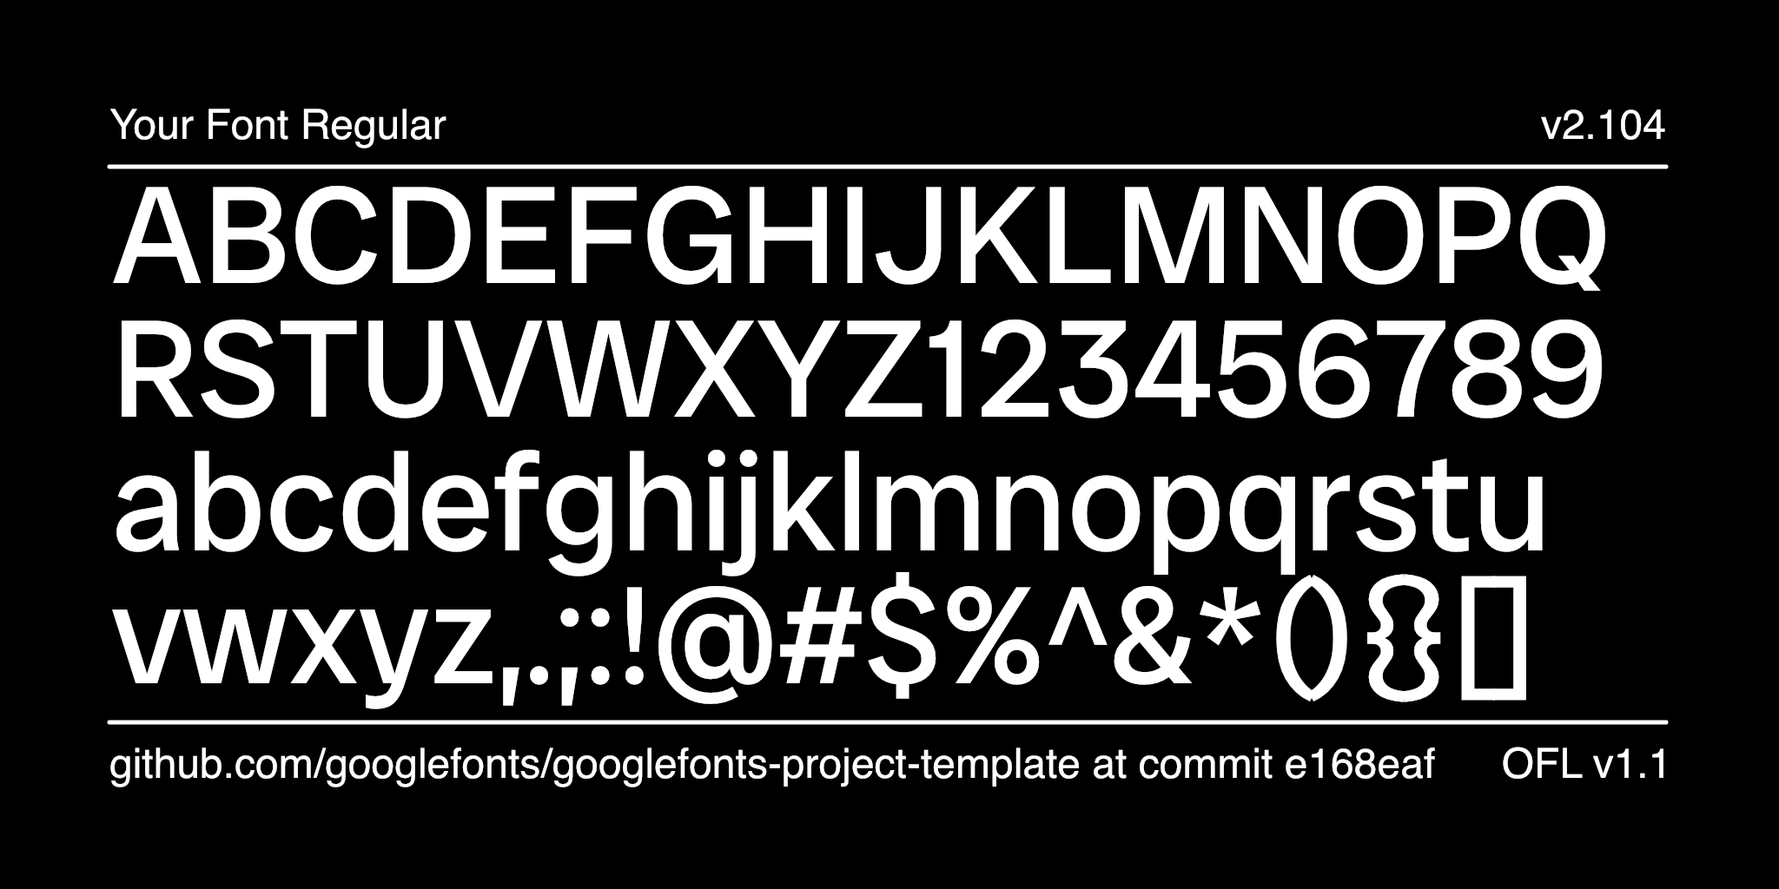
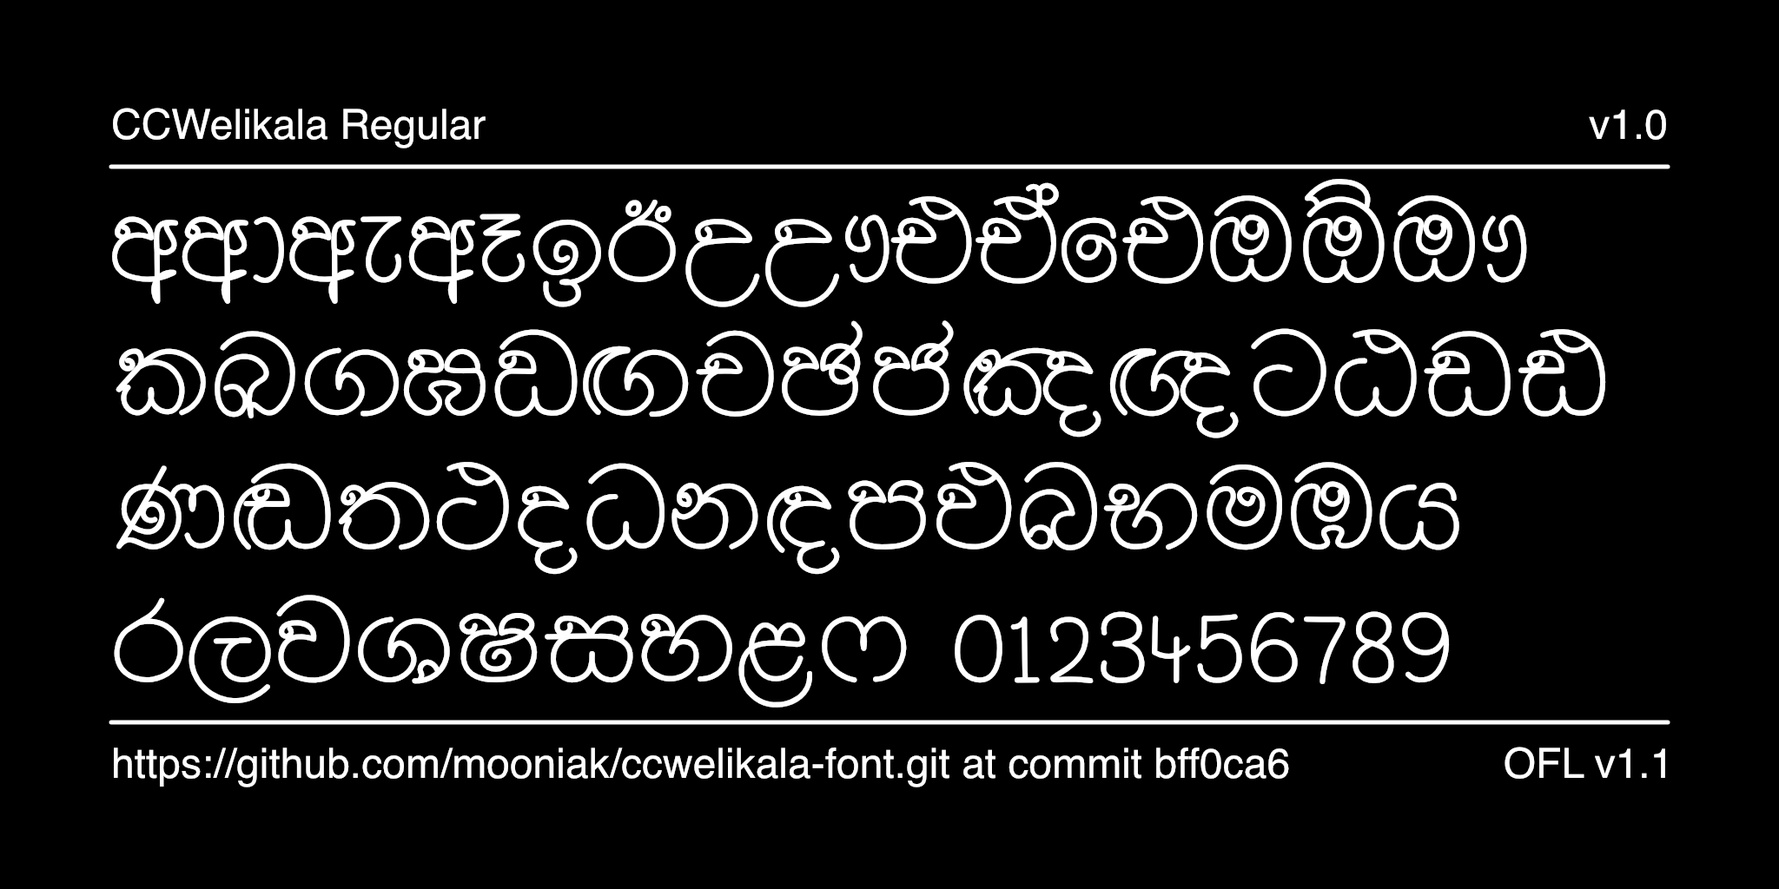
README, credits, article and specimens
Fills in the project template's placeholders:
- README: the font, its ASCII to Unicode port, font data and coverage
  from the release build, OpenType features, build and release steps
- AUTHORS.txt and CONTRIBUTORS.txt: Damith Welikala; OFL.txt line 1 is
  the font's copyright
- documentation/ARTICLE.en_us.html: the font description
- specimens: image1/image2.py point at fonts/ttf with Sinhala text drawn
  from the font's own coverage, rendered from a local --channel release
  build

diff --git a/documentation/ARTICLE.en_us.html b/documentation/ARTICLE.en_us.html
@@ -1,12 +1,17 @@
 <p>
-    Please add a text describing the font here, 100 chracters or more, but no more than 500 words.
-    See https://googlefonts.github.io/gf-guide/article.html for further reference.
-    Please make sure that HTML characters are properly encoded. ('&' becomes &amp; etc.)
-    If unsure, use https://www.freeformatter.com/html-escape.html for formatting. (Use "Escape HTML").
+    CCWelikala is a round, monoline Sinhala typeface by Damith Welikala (Ceylon Calligraphy), made in 2019.
+    Its letters are drawn with one even line and round, open shapes, for headings, posters, packaging and short texts at larger sizes.
 </p>
 <p>
-    Could be several paragraphs, also.
+    The font was first made in the FM Abhaya ASCII layout, the encoding most Sinhala fonts used
+    before Unicode: Sinhala letters were drawn on Latin keys, so text only looked like Sinhala in
+    that one font. In 2026 Mooniak ported it to Unicode. Every glyph now sits on its Sinhala
+    code point or is reached through OpenType rules, the vowel signs that were typed as separate
+    keys are composed, and the signs are positioned exactly where the original drew them.
 </p>
 <p>
-    To contribute, see <a href="https://github.com/youruseraccount/yourrepository">github.com/youruseraccount/yourrepository</a>.
+    The font covers the Sinhala letters in common use with their vowel signs, the repaya, rakaransaya and yansaya, ක්&zwj;ෂ, ක්&zwj;ව, ත්&zwj;ව, න්&zwj;ධ, ද්&zwj;ර and the designer's own ර්&zwj;ය, a set of consonant + vowel-sign ligatures, plus digits and basic punctuation, in a single Regular weight.
+</p>
+<p>
+    To contribute, see <a href="https://github.com/mooniak/ccwelikala-font">github.com/mooniak/ccwelikala-font</a>.
 </p>

diff --git a/documentation/image2.py b/documentation/image2.py
@@ -1,7 +1,7 @@
 # This script is meant to be run from the root level
 # of your font's git repository. For example, from a Unix terminal:
-# $ git clone my-font
-# $ cd my-font
+# $ git clone https://github.com/mooniak/ccwelikala-font.git
+# $ cd ccwelikala-font
 # $ python3 documentation/image1.py --output documentation/image1.png
 
 # Import moduels from external python packages: https://pypi.org/
@@ -13,19 +13,20 @@ from fontTools.misc.fixedTools import floatToFixedToStr
 import subprocess
 import sys
 import argparse
+import glob
 
 # Constants, these are the main "settings" for the image
 WIDTH, HEIGHT, MARGIN, FRAMES = 2048, 1024, 128, 1
-FONT_PATH = "fonts/variable/MyFont[wght].ttf"
+FONT_PATH = (sorted(glob.glob("fonts/ttf/*.ttf")) or sorted(glob.glob("fonts/variable/*.ttf")))[0]
 FONT_LICENSE = "OFL v1.1"
 AUXILIARY_FONT = "Helvetica"
 AUXILIARY_FONT_SIZE = 48
 
-LINE_ONE = "ABCDEFGHIJKLMNOPQ"
-LINE_TWO = "RSTUVWXYZ123456789"
-LINE_THREE = "abcdefghijklmnopqrstu"
-LINE_FOUR = "vwxyz,.;:!@#$%^&*(){}[]"
-BIG_TEXT_FONT_SIZE = 160
+LINE_ONE = "අආඇඈඉඊඋඌඑඒඓඔඕඖ"
+LINE_TWO = "කඛගඝඞඟචඡජඤඥටඨඩඪ"
+LINE_THREE = "ණඬතථදධනඳපඵබභමඹය"
+LINE_FOUR = "රලවශෂසහළෆ 0123456789"
+BIG_TEXT_FONT_SIZE = 140
 BIG_TEXT_SIDE_MARGIN = MARGIN * 1
 BIG_TEXT_BOTTOM_MARGIN = MARGIN * 5.45
 

diff --git a/documentation/image1.py b/documentation/image1.py
@@ -1,7 +1,7 @@
 # This script is meant to be run from the root level
 # of your font's git repository. For example, from a Unix terminal:
-# $ git clone my-font
-# $ cd my-font
+# $ git clone https://github.com/mooniak/ccwelikala-font.git
+# $ cd ccwelikala-font
 # $ python3 documentation/image1.py --output documentation/image1.png
 
 # Import moduels from external python packages: https://pypi.org/
@@ -13,18 +13,19 @@ from fontTools.misc.fixedTools import floatToFixedToStr
 import subprocess
 import sys
 import argparse
+import glob
 
 # Constants, these are the main "settings" for the image
 WIDTH, HEIGHT, MARGIN, FRAMES = 2048, 1024, 128, 1
-FONT_PATH = "fonts/variable/MyFont[wght].ttf"
+FONT_PATH = (sorted(glob.glob("fonts/ttf/*.ttf")) or sorted(glob.glob("fonts/variable/*.ttf")))[0]
 FONT_LICENSE = "OFL v1.1"
 AUXILIARY_FONT = "Helvetica"
 AUXILIARY_FONT_SIZE = 48
 
-BIG_TEXT = "AaBb"
-BIG_TEXT_FONT_SIZE = 730
+BIG_TEXT = "වැලිකල"
+BIG_TEXT_FONT_SIZE = 420
 BIG_TEXT_SIDE_MARGIN = MARGIN * 1
-BIG_TEXT_BOTTOM_MARGIN = MARGIN * 2
+BIG_TEXT_BOTTOM_MARGIN = MARGIN * 2.6
 
 GRID_VIEW = False # Toggle this for a grid overlay
 

diff --git a/README.md b/README.md
@@ -1,101 +1,205 @@
-## Setting up your font
+CCWelikala
+==========
 
-### New repositories
+[![Build][badge-build]][link-build]
+[![Fontspector QA][badge-qa]][link-qa]
+[![Release][badge-release]][link-release]
+[![License: OFL 1.1][badge-license]][link-license]
 
-1. Hit the green button above ("Use this template") to create your own repository.
+[badge-build]: https://github.com/mooniak/ccwelikala-font/actions/workflows/build.yaml/badge.svg?branch=dev
+[badge-qa]: https://img.shields.io/badge/dynamic/json?url=https%3A%2F%2Fsrc.mooniak.com%2Fccwelikala-font%2Fbuild.json&query=%24.qa.pass_rate&suffix=%25&label=fontspector%20QA%20(dev%20build)&color=informational
+[badge-release]: https://img.shields.io/github/v/release/mooniak/ccwelikala-font?label=release
+[badge-license]: https://img.shields.io/badge/license-OFL--1.1-green
+[link-build]: https://github.com/mooniak/ccwelikala-font/actions/workflows/build.yaml
+[link-qa]: https://src.mooniak.com/ccwelikala-font/reports/fontspector/fontspector-report.html
+[link-release]: https://github.com/mooniak/ccwelikala-font/releases
+[link-license]: OFL.txt
 
-2. Clone the repository, and replace the font sources in the `sources` directory with your own font sources. These sources may be either in Glyphs format or UFO/Designspace formats.\
-   \
-   Unlike many open source distributors, Google Fonts is **curated**. Fonts shipped to the platform have to match the [Google Fonts Specifications](https://github.com/googlefonts/gf-docs/tree/main/Spec). Please read them carefully.\
-   \
-   _(The template ships a tiny generic placeholder — "My Font", a 2-master Weight variable font with a handful of blank-slate glyphs (`.notdef`, space, H, I, l, O) as `sources/MyFont.designspace` + UFOs. It exists only so the build pipeline works out of the box; replace it with your own sources.)_
+CCWelikala is a round, monoline Sinhala typeface by Damith Welikala (Ceylon Calligraphy), made in 2019.
+Its letters are drawn with one even line and round, open shapes, for headings, posters, packaging and short texts at larger sizes. It is published by [Mooniak](https://mooniak.com/) as a free font under the SIL Open
+Font License, in a single Regular weight.
 
-3. Then reference the sources in the file `sources/config.yaml`, as well as making any other changes you would like to make based on the instructions in the [Google Fonts Builder documentation](https://github.com/googlefonts/gftools/blob/main/Lib/gftools/builder/__init__.py).
+> **Port in progress.** The source has been converted to Unicode, but the Mooniak metadata step is not done yet: the source is still named `CC_Welikala-ASCII.glyphspackage`, and the font's copyright, designer, vendor ID and vertical metrics are still the 2019 ones.
 
-4. Add yourself to the `AUTHORS.txt` and `CONTRIBUTORS.txt` files.
+![CCWelikala specimen](documentation/image1.png)
+![CCWelikala character set](documentation/image2.png)
 
-5. Fill out `documentation/ARTICLE.en_us.html` with a description of your font.
+## From an ASCII font to Unicode
 
-6. Rewrite this Readme file according to the recommendations in the [Google Fonts Guide](https://googlefonts.github.io/gf-guide/readmefile.html).
+CCWelikala was first made in the **FM Abhaya ASCII layout**, the encoding most Sinhala fonts used
+before Unicode. Sinhala letters were drawn on Latin keys (`l` was ක, `s` the is-pilla drawn to
+overprint the letter before it, `f` the kombuva typed *before* the letter, `á` a precomposed ටි).
+Text typed that way only reads as Sinhala in that one font. Search, copy-paste, spell-checking
+and screen readers all see Latin gibberish.
 
-7. Add and commit these files to git.
+In November 2026 the source was ported to Unicode with Mooniak's
+[`ascii_to_unicode.py`](https://github.com/mooniak/mooniak-font-tools/tree/main/tools/font-migration):
 
-8. **At the command line, run `make customize` to ensure that all the paths and URLs in your project are correct**. This will also push your changes to GitHub.
+- every glyph got its Sinhala code point or a [LankaGlyphset](https://github.com/mooniak/lanka-glyphsets)
+  name reached by OpenType rules (the precomposed ටි ඩී ද්ර … are ligatures now);
+- what FM typed as several keys (ආ = `wd`, ෛ = `ff`, රු = `re` …) is composed from the same drawings;
+- the overprinting signs have zero width and mark anchors that put them exactly where the
+  original drew them; the kombuva is reordered by the shaper, not typed first.
 
-9. **Set up your GitHub pages site**: go to your repository's Settings > Pages and ensure that the Build and deployment "Source" drop-down is set to "GitHub Actions". (Any preexisting Actions jobs can be re-run to publish now, or the deployment triggered also manually from the Actions tab. Subsequent commits will publish the proofs and QA results automatically.)
+Every decision is in [`documentation/ascii-unicode-map.tsv`](documentation/ascii-unicode-map.tsv).
+Where this font differs from the standard FM layout, it is in
+[`documentation/ascii-overrides.tsv`](documentation/ascii-overrides.tsv): `_` is the repaya and `©` a precomposed ර්ය, `¶` a second ග.
+The port was checked by rendering 1255 texts (every glyph slot, 961 syllables, 124 words of real FM text) in the old ASCII font and, as Unicode, in the new one: 1248 came out the same. The 7 others are expected: ÷ sat on the soft-hyphen slot, which is never drawn; ඞේ ඡේ use the designer's precomposed ඞ් ඡ්; and ර්ය is now set with the font's own ර්ය instead of ර + yansaya (which one is the default is the designer's call).
 
-10. If GitHub Actions has successfully built the family, you will find the font binaries in the Actions tab. The official GitHub Actions documentation provides further [information](https://docs.github.com/en/actions/managing-workflow-runs/downloading-workflow-artifacts).
+**Old documents typed in the ASCII version** can be converted to Unicode text with
+[Pandukabhaya](https://github.com/akuruAI/Pandukabhaya) (`pandukabhaya fm_abhaya -i old.txt -o new.txt`).
 
-### Updating a repository
+## Get the font
 
-1. To update your font repository to bring in the latest best-practices from the Google Fonts Project Template, run `make update-project-template` from the command line. This requires the `node` Javascript engine to be installed; if you don't have that already, [follow these instructions](https://nodejs.org/en/download/package-manager#macos) to install on your platform.
+- **Download:** the [Releases](https://github.com/mooniak/ccwelikala-font/releases) page. A
+  pre-release named `canary` is rebuilt from every push to `dev`. It is the latest development
+  work and may be broken, so don't use it in production. Its family name ends in `CANARY`, so it
+  can be installed next to a release.
+- **Proofs and QA:** the latest development build, with type proofs and the full Fontspector
+  report, is at [src.mooniak.com/ccwelikala-font](https://src.mooniak.com/ccwelikala-font/).
+- **Build it yourself:** see [Building the fonts from source](#building-the-fonts-from-source).
 
-2. To update the Python build chain which builds your fonts, run `make update` and `git add`/`git commit` the new `requirements.txt`.
+## Font data
 
-## More things to do
+| | |
+|---|---|
+| **Version** | 1.000 |
+| **Script** | Sinhala (no Latin letters; digits and basic punctuation only) |
+| **Styles** | Regular |
+| **Formats** | TTF, OTF and WOFF2 (`CCWelikala-Regular.*`) |
+| **Glyphs** | 192 (114 mapped to Unicode code points; the rest are ligatures and alternates used by OpenType features) |
+| **Units per em** | 1000 |
+| **Vertical metrics** | still the 2019 values (`hhea` 902 / −247; typo 800 / −200 with a 200 line gap; win 1000 / 200); the Mooniak metadata step will set Google Fonts metrics |
+| **File size** | about 335 KB (TTF), 221 KB (OTF), 128 KB (WOFF2) |
+| **Source format** | [Glyphs](https://glyphsapp.com/) 3 package (`sources/CC_Welikala-ASCII.glyphspackage`) |
+| **License** | [SIL Open Font License 1.1](OFL.txt) |
 
-- `CustomFilter_GF_Latin_All.plist` in `sources` is practical if you use GlyphsApp, you can remove it otherwise. Placed in the same directory as the your `.glyphs` file, it will allow Glyphs to display a filter list for all GF Latin glyphsets in app. To make sure your font supports the minimal set required by Google Fonts, look at the `GF_Latin_Core` filter list. Find other glyphsets and list formats for different software in [GF Glyphsets repository](https://github.com/googlefonts/glyphsets/tree/main/GF_glyphsets).
+### Character coverage
 
-- Once you are happy with your font, add promotional assets in the documentation directory. Make it different from the pic you use in this README. You can get inspired by existing @googlefonts posts as: https://x.com/googlefonts/status/1415562928657416192.
+| Range | Encoded |
+|---|---|
+| Sinhala (U+0D80–0DFF) | 76 of 91, the repaya and a precomposed ර්ය, both drawn by the designer. Not drawn: candrabindu U+0D81, ඏ ඐ U+0D8F–0D90, ෳ U+0DF3, kunddaliya U+0DF4, Lith digits U+0DE6–0DEF |
+| Basic Latin | space, digits 0–9 and `! % ( ) * + , - . / : ; = ?` |
+| Other | × ÷ – • ⋆ ‘ ’, no-break space, ZWNJ, ZWJ, dotted circle (U+25CC); the Ceylon Calligraphy wordmark on U+E000 and an unidentified sign on U+E001 (private use) |
 
-- Google Fonts uses GitHub Releases to manage font families. If you feel your font project has hit a milestone, you must create a new release for it. In order to do this, go to the releases page and hit the "Draft a new release" button. You must provide a tag number and title which can only be a decimal number e.g. `0.100`, `1.000` etc. For the body text, mention what has changed since the last release. Once you are done, hit the "Publish release" button. Here is an example which fulfills the requirements, https://github.com/m4rc1e/test-ufr-family/releases/tag/2.019. For more info regarding GitHub release, please see the official GitHub Release [documentation](https://docs.github.com/en/repositories/releasing-projects-on-github/managing-releases-in-a-repository). **Please note that GitHub Actions must be able to build the fonts before you can make a release. Once you have made a release, the fonts and tests assets will be attached to the release automatically. This may take a while since the fonts and tests will be built from scratch so please be patient.**
+### OpenType features
 
----
+The features are generated by `ascii_to_unicode.py` from the glyphs the font has.
 
-# My Font
+| Layout table | Features |
+|---|---|
+| `GSUB` | `akhn` (ක්ෂ) `rphf` (repaya) `vatu` (rakaransaya, yansaya, ද්ර) `pstf` (two-part vowels) `abvs` `blws` `psts` (consonant + sign ligatures, ක්ව ත්ව න්ධ, the designer's ර්ය, the hook-form ු/ූ after ක ග ත භ ශ, රු රූ) `ss01` (below-base ඳා) |
+| `GPOS` | `abvm` `mark` (ි ී ු ූ ් placed where the original drew them) |
 
-[![][Fontspector]](https://mooniak.github.io/mooniak-font-project-template.git/fontspector/fontspector-report.html)
-[![][OpenType]](https://mooniak.github.io/mooniak-font-project-template.git/fontspector/fontspector-report.html)
-[![][Universal]](https://mooniak.github.io/mooniak-font-project-template.git/fontspector/fontspector-report.html)
-[![][Google Fonts]](https://mooniak.github.io/mooniak-font-project-template.git/fontspector/fontspector-report.html)
-[![][Glyphset]](https://mooniak.github.io/mooniak-font-project-template.git/fontspector/fontspector-report.html)
+Most conjuncts fall back to a letter with a visible al-lakuna, and some glyphs need the designer to confirm what they are.
 
-[Fontspector]: https://img.shields.io/endpoint?url=https%3A%2F%2Fmooniak.github.io%2Fmooniak-font-project-template.git%2Fbadges%2FFontspectorQA.json
-[OpenType]: https://img.shields.io/endpoint?url=https%3A%2F%2Fmooniak.github.io%2Fmooniak-font-project-template.git%2Fbadges%2FOpentypeSpecificationChecks.json
-[Universal]: https://img.shields.io/endpoint?url=https%3A%2F%2Fmooniak.github.io%2Fmooniak-font-project-template.git%2Fbadges%2FUniversalProfileChecks.json
-[Google Fonts]: https://img.shields.io/endpoint?url=https%3A%2F%2Fmooniak.github.io%2Fmooniak-font-project-template.git%2Fbadges%2FFontFileChecks.json
-[Outline Correctness]: https://img.shields.io/endpoint?url=https%3A%2F%2Fmooniak.github.io%2Fmooniak-font-project-template.git%2Fbadges%2FOutlineCorrectnessChecks.json
-[Glyphset]: https://img.shields.io/endpoint?url=https%3A%2F%2Fmooniak.github.io%2Fmooniak-font-project-template.git%2Fbadges%2FGlyphsetChecks.json
+## Repository structure
 
-Description of your font goes here. We recommend to start with a very short presentation line (the kind you would use on twitter to present your project for example), and then add as much details as necesary :-) Origin of the project, idea of usage, concept of creation… but also number of masters, axes, character sets, etc.
+| Path | What it is |
+|---|---|
+| `sources/CC_Welikala-ASCII.glyphspackage` | The font source: glyphs, anchors and OpenType feature code, as a Glyphs 3 package |
+| `sources/config.yaml` | Build configuration read by [gftools](https://github.com/googlefonts/gftools) |
+| `fontpackage.json` | Mooniak catalogue metadata (name, designer, tier, channels) |
+| `Makefile` | Build, test and proof targets (see below) |
+| `requirements.in`, `requirements.txt` | Python dependencies: the top-level list, and the pinned set used for builds |
+| `fonts/`, `out/`, `_site/` | Build output, QA/proof reports and the proof site (created by `make`; not committed) |
+| `documentation/` | Specimen images and their DrawBot scripts, the font description (`ARTICLE.en_us.html`), and the ASCII → Unicode port records (`ascii-unicode-map.tsv`, `ascii-overrides.tsv`) |
+| `scripts/` | Helper scripts used by the Makefile and CI (from the Mooniak project template) |
+| `OFL.txt`, `AUTHORS.txt`, `CONTRIBUTORS.txt` | License and credits |
 
-Don't hesitate to create images!
+## Building the fonts from source
 
-![Sample Image](documentation/image1.png)
-![Sample Image](documentation/image2.png)
+Building needs only free, open-source tools. You need Glyphs only to edit the source, not to build.
 
-## About
+### Requirements
 
-Description of you and/or organisation goes here.
+- **macOS or Linux** (on Windows, use [WSL](https://learn.microsoft.com/windows/wsl/)).
+- **Python 3.12** with `venv` and `pip`, the version CI uses. The dependencies in
+  `requirements.txt` are pinned, and other Python versions may fail to install them.
+- **Make** and **git**, and network access for the first build.
 
-## Building
+### Build
 
-Fonts are built automatically by GitHub Actions — take a look in the "Actions" tab for the latest build.
+```sh
+git clone https://github.com/mooniak/ccwelikala-font.git
+cd ccwelikala-font
+python3.12 -m venv venv
+make build
+```
 
-If you want to build fonts manually on your own computer:
+`make build` installs the pinned dependencies into `venv/` (first run only), then runs
+[`gftools builder`](https://github.com/googlefonts/gftools) on `sources/config.yaml`. Output:
 
-- `make build` will produce font files.
-- `make test` will run [Fontspector](https://fonttools.github.io/fontspector/)'s quality assurance tests.
-- `make proof` will generate HTML proof files.
+```
+fonts/ttf/CCWelikala-Regular.ttf
+fonts/otf/CCWelikala-Regular.otf
+fonts/webfonts/CCWelikala-Regular.woff2
+```
 
-The proof files and QA tests are also available automatically via GitHub Actions — look at https://mooniak.github.io/mooniak-font-project-template.git.
+Each rebuild deletes and recreates `fonts/`. `make` doesn't notice edits inside the package
+folder, so after editing the source run `rm build.stamp && make build`.
+
+### Quality checks and proofs
+
+These need two extra tools, installed with
+[`cargo binstall`](https://github.com/cargo-bins/cargo-binstall):
+
+```sh
+cargo binstall fontspector     # for `make test`
+cargo binstall diffenator3     # for `make proof`
+```
+
+| Command | What it does |
+|---|---|
+| `make test` | Runs [Fontspector](https://github.com/fonttools/fontspector) with the Google Fonts profile and writes reports to `out/fontspector/`. It doesn't stop on failures; read the report. |
+| `make proof` | Runs `diff3proof` and writes an HTML proof to `out/proof/`. |
+| `make pages` | Builds the stage-gated proof site into `_site/` (needs `make manifest` first). |
+| `make images` | Re-renders `documentation/image1.png` and `image2.png`. |
+| `make clean` | Deletes `venv/`. |
+
+Known Fontspector failures, shared by Mooniak's other Sinhala-only fonts: the Google Fonts Latin
+coverage, language-shaping and "render own name" checks (the font has no Latin letters), and the
+GF repository-layout check.
+
+## Releases and versioning
+
+Versions follow [OpenFV](https://github.com/openfv/openfv) (`MAJOR.MINOR`, three-digit minor).
+Work happens on `dev`; `main` only moves when a release is cut.
+
+| You want | Do this | CI publishes |
+|---|---|---|
+| the latest build | push to `dev` | the rolling `canary` pre-release and the proof site |
+| a fixed preview for testers | tag a `dev` commit `vX.YYY-dev.N` | a GitHub pre-release |
+| a release | merge `dev` into `main` (no squash), tag `main` `vX.YYY` | a GitHub Release |
+
+Bump `versionMajor`/`versionMinor` in the source before tagging. The next release after the
+2019 version 1.000 should be **1.001** or later.
+
+## Contributing
+
+Bug reports and design feedback are welcome in the
+[issue tracker](https://github.com/mooniak/ccwelikala-font/issues). Open pull requests against
+`dev`, edit `sources/CC_Welikala-ASCII.glyphspackage` with Glyphs 3, rebuild
+(`rm build.stamp && make build`) and run `make test`. Add yourself to `CONTRIBUTORS.txt`.
+
+## Credits
+
+- **Design:** Damith Welikala, Ceylon Calligraphy (2019)
+- **Unicode port, production and publishing:** [Mooniak](https://mooniak.com/) (2026)
+- **FM Abhaya mapping data:** [Pandukabhaya](https://github.com/akuruAI/Pandukabhaya) (MIT)
 
 ## Changelog
 
-When you update your font (new version or new release), please report all notable changes here, with a date.
-[Font Versioning](https://github.com/googlefonts/gf-docs/tree/main/Spec#font-versioning) is based on semver.
-Changelog example:
+**18 November 2026, version 1.000 (development)**
 
-**26 May 2021. Version 2.13**
+- Ported from the FM Abhaya ASCII layout to Unicode: LankaGlyphset names, Sinhala code points,
+  composed vowels and ligatures, generated OpenType features, mark anchors.
+- Moved to the Mooniak build pipeline: Glyphs 3 package, gftools builds with CI, proofs and QA.
+- Added no-break space, ZWJ/ZWNJ and dotted circle.
 
-- MAJOR Font turned to a variable font.
-- SIGNIFICANT New Stylistic sets added.
+**2019, version 1.000.** Damith Welikala's original, an FM-layout ASCII font made in FontForge.
 
 ## License
 
-This Font Software is licensed under the SIL Open Font License, Version 1.1.
-This license is available with a FAQ at https://openfontlicense.org
-
-## Repository Layout
-
-This font repository structure is inspired by [Unified Font Repository v0.3](https://github.com/unified-font-repository/Unified-Font-Repository), modified for the Google Fonts workflow.
+This Font Software is licensed under the SIL Open Font License, Version 1.1. This license is
+available with a FAQ at https://openfontlicense.org
